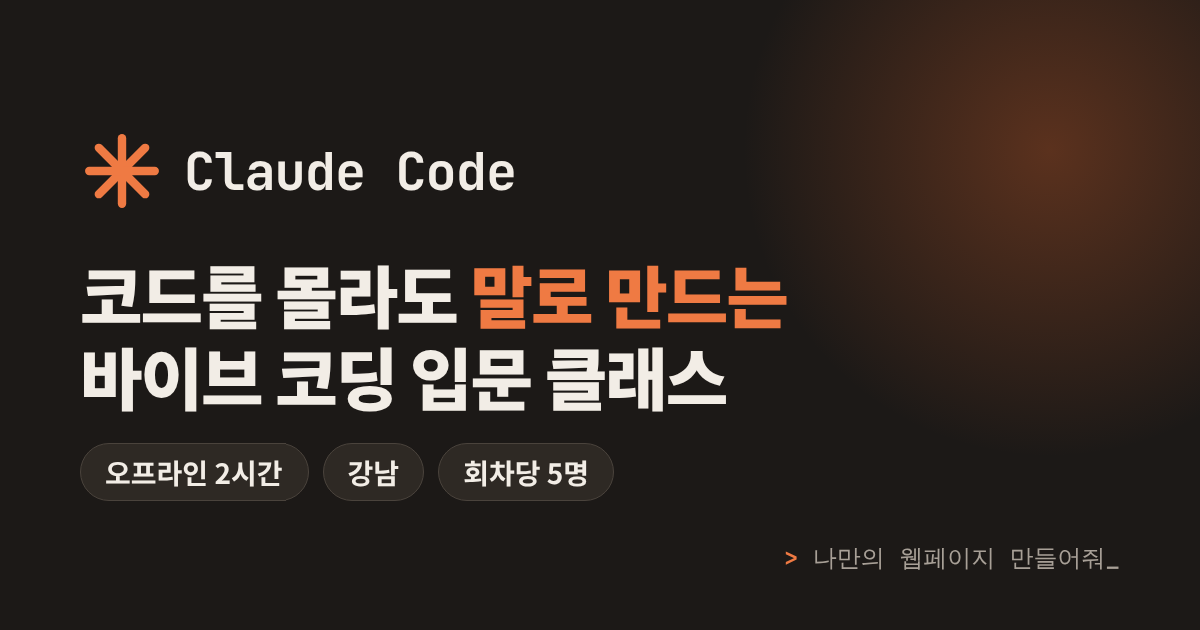
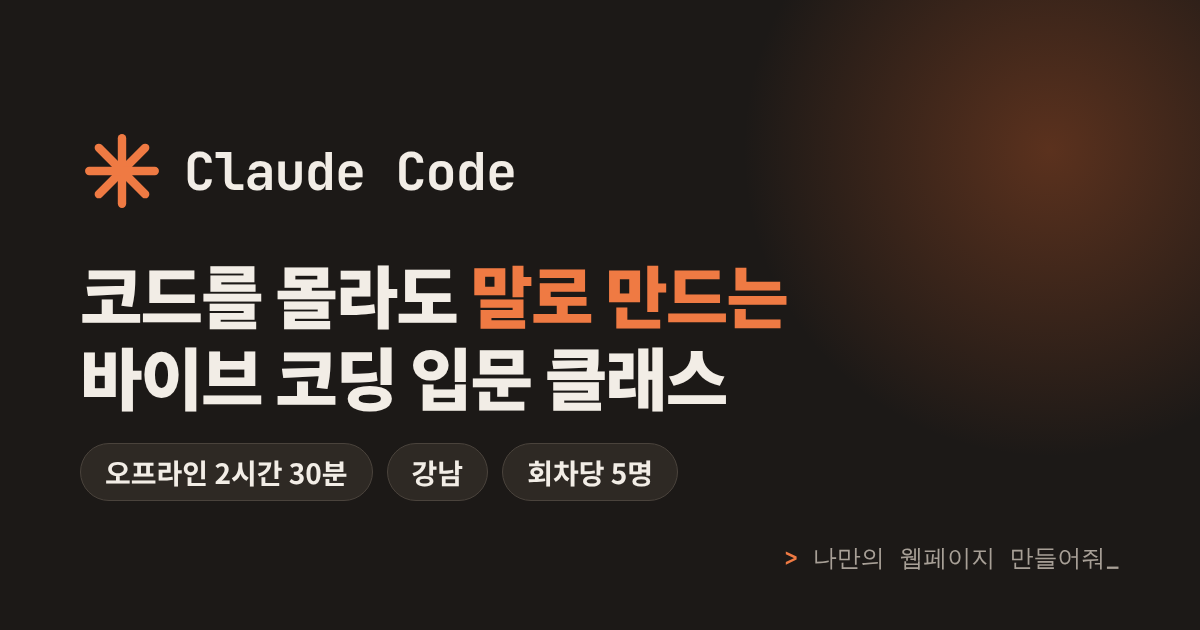
커리큘럼 150분(텔레그램 연동 실습 추가), 수강료 55,000원으로 변경 (#37)
랜딩·안내 페이지·검색 정보·미리보기 이미지·관리자 기본 종료 시간 반영

Claude-Session: https://claude.ai/code/session_011nttJu4SdMkHiWQUUz6vdQ

Changed region(s): [[0.2467, 0.7238, 0.555, 0.7841]]

diff --git a/public/index.html b/public/index.html
@@ -9,15 +9,15 @@
 <link rel="apple-touch-icon" href="/apple-touch-icon.png">
 <link rel="manifest" href="/site.webmanifest">
 <meta name="theme-color" content="#1c1917">
-<meta name="description" content="코딩을 몰라도 괜찮아요. 클로드 코드(Claude Code)로 2시간 동안 나만의 웹페이지를 만들고 배포까지 해보는 강남 오프라인 바이브 코딩 입문 강의. 회차당 5명 소수 정예, 수강료 3만 원.">
+<meta name="description" content="코딩을 몰라도 괜찮아요. 클로드 코드(Claude Code)로 2시간 30분 동안 나만의 웹페이지를 만들고 배포와 텔레그램 연동까지 해보는 강남 오프라인 바이브 코딩 입문 강의. 회차당 5명 소수 정예, 수강료 5만 5천 원.">
 <meta name="keywords" content="바이브 코딩, 바이브코딩 강의, 클로드 코드, Claude Code, 클로드 코드 강의, AI 코딩 강의, 노코드, 코딩 입문, 강남 코딩 강의, 오프라인 코딩 클래스">
 <meta name="robots" content="index, follow, max-image-preview:large">
 <link rel="canonical" href="https://aieo.kr/">
 <meta property="og:url" content="https://aieo.kr/">
 <meta property="og:site_name" content="바이브 코딩 입문 클래스">
 <meta property="og:locale" content="ko_KR">
-<meta property="og:title" content="바이브 코딩 입문 클래스 | 클로드 코드로 2시간 만에 첫 서비스 만들기">
-<meta property="og:description" content="코딩을 몰라도 괜찮아요. 말로 설명하면 AI가 코드를 씁니다. 오프라인 2시간 실습 클래스.">
+<meta property="og:title" content="바이브 코딩 입문 클래스 | 클로드 코드로 2시간 30분 만에 첫 서비스 만들기">
+<meta property="og:description" content="코딩을 몰라도 괜찮아요. 말로 설명하면 AI가 코드를 씁니다. 오프라인 2시간 30분 실습 클래스.">
 <meta property="og:type" content="website">
 <meta property="og:image" content="/og.png?v=2">
 <meta property="og:image:width" content="1200">
@@ -25,7 +25,7 @@
 <meta name="twitter:card" content="summary_large_image">
 <meta name="twitter:image" content="/og.png?v=2">
 <!--SEO_EXTRA-->
-<script type="application/ld+json">{"@context": "https://schema.org", "@type": "FAQPage", "mainEntity": [{"@type": "Question", "name": "코딩을 정말 하나도 몰라도 되나요?", "acceptedAnswer": {"@type": "Answer", "text": "네. 이 클래스는 코딩 경험이 전혀 없는 분을 기준으로 만들었습니다. 코드를 직접 쓰는 대신 원하는 것을 말로 설명하는 방법을 배웁니다."}}, {"@type": "Question", "name": "Claude 유료 구독이 필요한가요?", "acceptedAnswer": {"@type": "Answer", "text": "네. Claude Code를 쓰려면 Claude Pro 이상 유료 요금제가 필요해요. 수업 전에 claude.ai에서 Pro 결제를 마치고 오시면 바로 실습을 시작할 수 있어요."}}, {"@type": "Question", "name": "수강료는 언제 어떻게 내나요?", "acceptedAnswer": {"@type": "Answer", "text": "미리 결제하실 필요 없어요. 수업 당일 현장에서 30,000원을 결제해 주시면 됩니다."}}, {"@type": "Question", "name": "노트북 사양이 낮아도 괜찮나요?", "acceptedAnswer": {"@type": "Answer", "text": "괜찮습니다. 무거운 작업은 AI 쪽에서 처리하기 때문에 인터넷과 웹 브라우저가 잘 되는 노트북이면 충분합니다."}}, {"@type": "Question", "name": "수업이 끝나면 무엇을 가져가나요?", "acceptedAnswer": {"@type": "Answer", "text": "직접 만든 웹페이지와 그 페이지에 접속할 수 있는 실제 링크, 그리고 혼자서도 계속 만들어 갈 수 있는 작업 흐름을 가져가십니다."}}]}</script>
+<script type="application/ld+json">{"@context": "https://schema.org", "@type": "FAQPage", "mainEntity": [{"@type": "Question", "name": "코딩을 정말 하나도 몰라도 되나요?", "acceptedAnswer": {"@type": "Answer", "text": "네. 이 클래스는 코딩 경험이 전혀 없는 분을 기준으로 만들었습니다. 코드를 직접 쓰는 대신 원하는 것을 말로 설명하는 방법을 배웁니다."}}, {"@type": "Question", "name": "Claude 유료 구독이 필요한가요?", "acceptedAnswer": {"@type": "Answer", "text": "네. Claude Code를 쓰려면 Claude Pro 이상 유료 요금제가 필요해요. 수업 전에 claude.ai에서 Pro 결제를 마치고 오시면 바로 실습을 시작할 수 있어요."}}, {"@type": "Question", "name": "수강료는 언제 어떻게 내나요?", "acceptedAnswer": {"@type": "Answer", "text": "미리 결제하실 필요 없어요. 수업 당일 현장에서 55,000원을 결제해 주시면 됩니다."}}, {"@type": "Question", "name": "노트북 사양이 낮아도 괜찮나요?", "acceptedAnswer": {"@type": "Answer", "text": "괜찮습니다. 무거운 작업은 AI 쪽에서 처리하기 때문에 인터넷과 웹 브라우저가 잘 되는 노트북이면 충분합니다."}}, {"@type": "Question", "name": "수업이 끝나면 무엇을 가져가나요?", "acceptedAnswer": {"@type": "Answer", "text": "직접 만든 웹페이지와 그 페이지에 접속할 수 있는 실제 링크, 그리고 혼자서도 계속 만들어 갈 수 있는 작업 흐름을 가져가십니다."}}]}</script>
 <link rel="preconnect" href="https://fonts.googleapis.com">
 <link rel="preconnect" href="https://fonts.gstatic.com" crossorigin>
 <link href="https://fonts.googleapis.com/css2?family=Noto+Sans+KR:wght@400;500;700;900&family=JetBrains+Mono:wght@500&display=swap" rel="stylesheet">
@@ -353,9 +353,9 @@
   <section class="hero">
     <div class="wrap">
       <div>
-        <span class="eyebrow">🔰 완전 초보 환영 · 클로드 코드 바이브 코딩 · 2시간</span>
+        <span class="eyebrow">🔰 완전 초보 환영 · 클로드 코드 바이브 코딩 · 2시간 30분</span>
         <h1>코드를 몰라도<br><em>말로 만드는</em> 첫 서비스</h1>
-        <p class="lead">코딩을 한 번도 해본 적 없어도 괜찮아요. Claude Code와 평소 쓰는 말로 대화하며 나만의 웹페이지를 만들고, 인터넷에 올려 링크로 공유하기까지. 2시간 동안 강사와 함께 한 단계씩 해봅니다.</p>
+        <p class="lead">코딩을 한 번도 해본 적 없어도 괜찮아요. Claude Code와 평소 쓰는 말로 대화하며 나만의 웹페이지를 만들고, 인터넷에 올려 링크로 공유하고 텔레그램 알림까지 연결하기. 2시간 30분 동안 강사와 함께 한 단계씩 해봅니다.</p>
         <div class="cta-row">
           <a href="#apply" class="btn js-apply">지금 신청하기 →</a>
           <a href="#curriculum" class="btn ghost">커리큘럼 보기</a>
@@ -436,7 +436,7 @@
   <!-- CURRICULUM -->
   <section class="alt" id="curriculum">
     <div class="wrap">
-      <h2>2시간 커리큘럼</h2>
+      <h2>150분 커리큘럼</h2>
       <p class="sub">설명은 짧게, 실습은 길게. 끝날 때 내 손에는 실제로 접속되는 링크가 남습니다.</p>
       <div class="timeline">
         <div class="step">
@@ -474,7 +474,12 @@
           <p>문의 버튼, 지도, 신청 폼처럼 내 페이지에 필요한 기능을 하나 골라 직접 추가하고 다시 배포해 봅니다.</p>
         </div>
         <div class="step">
-          <div class="time">01:55 – 02:00</div>
+          <div class="time">01:55 – 02:20</div>
+          <h3>실습 3: 텔레그램 연동하기</h3>
+          <p>텔레그램 봇을 직접 만들고, 내 페이지에 문의나 신청이 들어오면 휴대폰 텔레그램으로 바로 알림이 오게 연결합니다. 만든 서비스가 나에게 말을 거는 순간을 경험해 보세요.</p>
+        </div>
+        <div class="step">
+          <div class="time">02:20 – 02:30</div>
           <h3>다음 단계와 Q&amp;A</h3>
           <p>혼자서 계속 만들어 가는 방법, 자주 하는 실수, 비용 관리 팁.</p>
         </div>
@@ -576,7 +581,7 @@
         <div>
           <div class="price-box">
             <div class="label">수강료</div>
-            <div class="price">30,000원</div>
+            <div class="price">55,000원</div>
             <div class="seats">당일 현장 결제 · 회차당 최대 5명</div>
             <dl class="facts">
               <dt>장소</dt><dd>강남 · 9호선 봉은사역 도보 3분 (자세한 위치는 신청 시 문자로 안내)</dd>
@@ -605,7 +610,7 @@
       </details>
       <details>
         <summary>수강료는 언제 어떻게 내나요?</summary>
-        <p>미리 결제하실 필요 없어요. 수업 당일 현장에서 30,000원을 결제해 주시면 됩니다.</p>
+        <p>미리 결제하실 필요 없어요. 수업 당일 현장에서 55,000원을 결제해 주시면 됩니다.</p>
       </details>
       <details>
         <summary>노트북 사양이 낮아도 괜찮나요?</summary>
@@ -621,7 +626,7 @@
   <!-- FINAL CTA -->
   <section class="final">
     <div class="wrap">
-      <h2>2시간 뒤, 내가 만든 서비스의 링크를 공유해 보세요</h2>
+      <h2>2시간 30분 뒤, 내가 만든 서비스의 링크를 공유해 보세요</h2>
       <p>회차마다 자리는 5석뿐입니다.</p>
       <a href="#apply" class="btn js-apply">수강 신청하기 →</a>
     </div>

diff --git a/server.js b/server.js
@@ -421,13 +421,13 @@ function courseJsonLd() {
   const data = {
     "@context": "https://schema.org",
     "@type": "Course",
-    name: "바이브 코딩 입문 클래스: 클로드 코드(Claude Code)로 2시간 만에 첫 서비스 만들기",
-    description: "코딩을 몰라도 클로드 코드와 대화하며 나만의 웹페이지를 만들고 배포까지 해보는 강남 오프라인 2시간 입문 강의.",
+    name: "바이브 코딩 입문 클래스: 클로드 코드(Claude Code)로 2시간 30분 만에 첫 서비스 만들기",
+    description: "코딩을 몰라도 클로드 코드와 대화하며 나만의 웹페이지를 만들고 배포와 텔레그램 연동까지 해보는 강남 오프라인 2시간 30분 입문 강의.",
     inLanguage: "ko",
     url: SITE_URL + "/",
     image: SITE_URL + "/og.png?v=2",
     provider: { "@type": "Person", name: "Bill", jobTitle: "IT 회사 15년 차 서비스 기획자", email: "bill@neonex.team" },
-    offers: { "@type": "Offer", category: "Paid", price: 30000, priceCurrency: "KRW", availability: "https://schema.org/InStock", url: SITE_URL + "/#apply" },
+    offers: { "@type": "Offer", category: "Paid", price: 55000, priceCurrency: "KRW", availability: "https://schema.org/InStock", url: SITE_URL + "/#apply" },
     hasCourseInstance: openUpcomingSlots().map((s) => ({
       "@type": "CourseInstance",
       courseMode: "Onsite",

diff --git a/public/admin.html b/public/admin.html
@@ -206,7 +206,7 @@
         <form id="slotForm" class="form-grid">
           <label>날짜<input type="date" name="date" required></label>
           <label>시작<input type="time" name="start" value="14:00" required></label>
-          <label>종료<input type="time" name="end" value="16:00" required></label>
+          <label>종료<input type="time" name="end" value="16:30" required></label>
           <label>장소<input name="place" value="강남" required></label>
           <label>정원<input type="number" name="capacity" value="5" min="1" max="100" required></label>
           <div class="row"><button class="btn" id="slotSubmit">추가</button><button type="button" class="btn ghost" id="slotCancel" hidden>취소</button></div>

diff --git a/public/info.html b/public/info.html
@@ -60,7 +60,7 @@
       <div class="ic" aria-hidden="true">📅</div>
       <div>
         <div class="label">일시</div>
-        <div class="value">주말 · 2시간</div>
+        <div class="value">주말 · 2시간 30분</div>
         <div class="sub">신청하신 날짜와 시간은 신청 완료 문자에서 확인해주세요.</div>
       </div>
     </div>
@@ -87,7 +87,7 @@
       <div class="ic" aria-hidden="true">💳</div>
       <div>
         <div class="label">수강료</div>
-        <div class="value">30,000원 · 당일 현장 결제</div>
+        <div class="value">55,000원 · 당일 현장 결제</div>
       </div>
     </div>
   </div>

diff --git a/README.md b/README.md
@@ -1,6 +1,6 @@
 # 바이브 코딩 입문 클래스
 
-Claude Code로 배우는 바이브 코딩 입문 오프라인 클래스(2시간) 홍보 페이지와 수강 신청 서버입니다.
+Claude Code로 배우는 바이브 코딩 입문 오프라인 클래스(2시간 30분) 홍보 페이지와 수강 신청 서버입니다.
 
 - 일정별 남은 자리 표시, 회차당 최대 5명
 - 신청 시 휴대폰 문자 인증 (솔라피), 신청 완료 문자에 수강 안내 링크(`/info`) 발송
